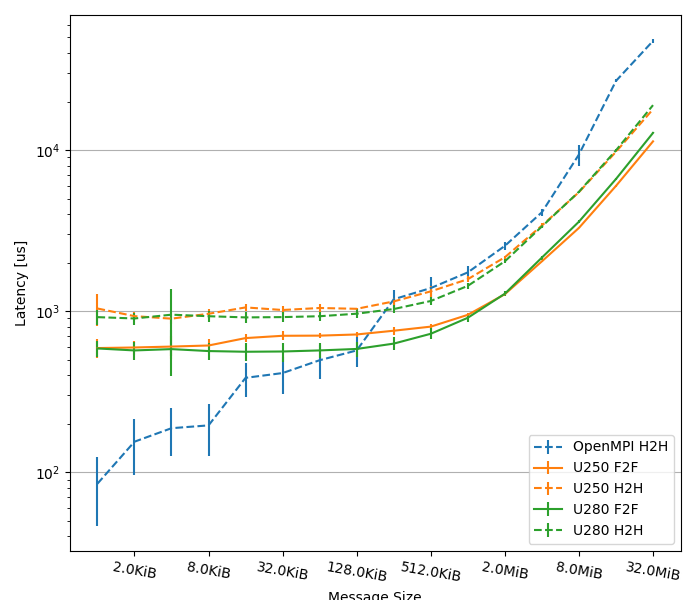
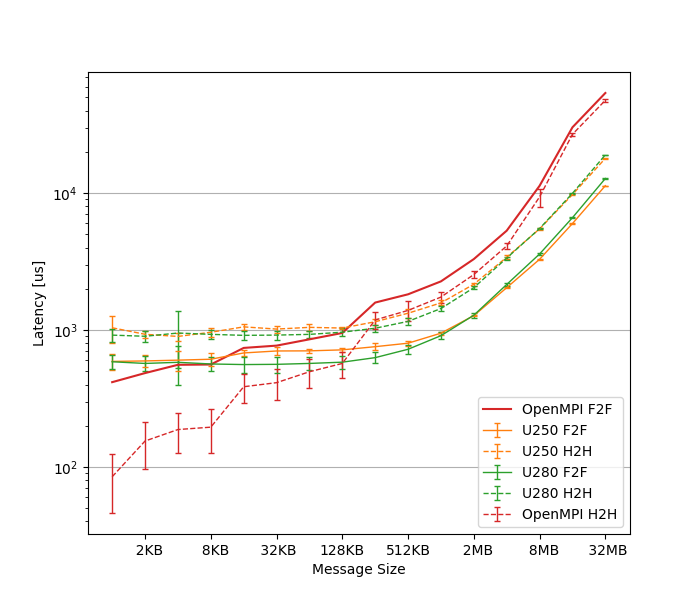
Adds one collective avergae execution time vs number of ranks in the communicator

diff --git a/demo/host/measurements/create_graphs.py b/demo/host/measurements/create_graphs.py
@@ -1,4 +1,4 @@
-from os import error, listdir, name
+from os import error, listdir, name, terminal_size
 from os.path import isfile, join
 from numpy import average, mean, std
 
@@ -27,7 +27,7 @@ def plot_clustered_bars(title, x_datas, y_datas, y_labels):
     plt.show()
     #plt.savefig(f"{title}.png")
 
-def plot_lines(title, x_datas, y_datas, y_labels, y_styles=None, logx=True, logy=True, y_errors=None):
+def plot_lines(title, x_datas, y_datas, y_labels, y_styles=None, logx=True, logy=True, y_errors=None, x_label='Message Size', legend_loc=None):
     if not(y_styles):
         y_styles = [None for _ in range(len(y_labels))]
     
@@ -54,16 +54,21 @@ def plot_lines(title, x_datas, y_datas, y_labels, y_styles=None, logx=True, logy
     #ax.set_title(title)
     if logy:
         ax.set_yscale('log')
-        ax.legend(loc="lower right")
-    else:
-        ax.legend(loc="upper left")
-        
+    
     if logx:
         ax.set_xscale('log', base=2)
         
-    ax.xaxis.set_major_formatter(ticker.FuncFormatter(lambda y, _: sizeof_fmt(y)))
+    if legend_loc is None :
+        if logy:
+            ax.legend(loc="lower right")
+        else:
+            ax.legend(loc="upper left")
+    else:
+        ax.legend(loc=legend_loc)
+    if x_label == "Message Size":
+        ax.xaxis.set_major_formatter(ticker.FuncFormatter(lambda y, _: sizeof_fmt(y)))
     plt.xticks(rotation=0)
-    ax.set_xlabel('Message Size')
+    ax.set_xlabel(x_label)
     plt.show()
     plt.savefig(f"{title}.png", format='png')
 
@@ -214,7 +219,7 @@ def compare_ssize(df):
             series_x.append(bufsize)
         plot_clustered_bars(collective, series_x, series_y, series_label)
 
-def compare_board(df):
+def compare_openMPI(df, H2H=True, F2F=True):
     df              = df[ (df["rank id"] == 0) & ( (df["number of nodes"]==4)  | (df["collective name"] == "Send/recv"))]
     collectives     = df["collective name"].unique()
     segment_size    = 1024
@@ -241,13 +246,13 @@ def compare_board(df):
 
             board = simplify_board_name(board)
             i+=1
-            if np.any(exe != 0):
+            if np.any(exe != 0) and F2F:
                 series_label.append(f"{board} F2F")
                 series_y.append(exe)
                 series_x.append(bufsize)
                 stdevs.append(exe_std)
                 styles.append(f"C{i}-")
-            if np.any(exe_full != 0):
+            if np.any(exe_full != 0) and H2H:
                 series_label.append(f"{board} H2H")
                 series_y.append(exe_full)
                 series_x.append(bufsize)
@@ -272,62 +277,219 @@ def compare_board(df):
             board = simplify_board_name(board)
             i+=1
             if np.any(exe_full != 0):
-                if average_delta is not None:
+                if average_delta is not None and F2F:
                     series_label.append(f"{board} F2F")
                     exe = list(map(sum, zip(exe_full,average_delta)))
                     series_y.append(exe)
                     series_x.append(bufsize[:len(exe)])
                     stdevs.append(None)
                     styles.append(f"C{i}-")
-                
+                if H2H:
+                    series_label.append(f"{board} H2H")
+                    series_y.append(exe_full)
+                    series_x.append(bufsize)
+                    stdevs.append(exe_full_std)
+                    styles.append(f"C{i}--")
+
+        
+        plot_lines("compare_OMPI"+("H2H" if H2H else "") + ("F2F" if F2F else "")+collective.replace("/", ""), series_x, series_y, series_label, styles, y_errors=stdevs, logx=True)
+        #plot_clustered_bars(collective, series_x, series_y, series_label)
+
+def compare_board(df,H2H=True, F2F=True):
+    df              = df[ (df["rank id"] == 0) & ( (df["number of nodes"]==4)  | (df["collective name"] == "Send/recv"))]
+    collectives     = df["collective name"].unique()
+    segment_size    = 1024
+    for collective in collectives:
+        print(collective)
+        subset              = df[(df["collective name"] == collective) & ((df["segment_size[KB]"] == segment_size) | (df["board_instance"] != "OpenMPI" ))]
+        grouped             = subset.groupby(["board_instance", "buffer size[KB]"]).agg({'execution_time[us]':['mean','std'], 'execution_time_fullpath[us]':['mean','std']})
+        grouped.reset_index(inplace=True)
+        grouped             = grouped.groupby(["board_instance"])
+        series_label = []
+        series_y     = []
+        series_x     = []
+        styles       = []
+        stdevs       = []
+
+        i = 0
+        for board, group in grouped:
+            print(group)
+            exe          = group['execution_time[us]']['mean'].to_numpy()
+            exe_std      = group['execution_time[us]']['std'].to_numpy()
+            bufsize      = group['buffer size[KB]'].to_numpy()*1024
+            exe_full     = group['execution_time_fullpath[us]']['mean'].to_numpy()
+            exe_full_std = group['execution_time_fullpath[us]']['std'].to_numpy()
+
+            board = simplify_board_name(board)
+            i+=1
+            if np.any(exe != 0) and F2F:
+                series_label.append(f"{board} F2F")
+                series_y.append(exe)
+                series_x.append(bufsize)
+                stdevs.append(exe_std)
+                styles.append(f"C{i}-")
+            if np.any(exe_full != 0) and H2H:
                 series_label.append(f"{board} H2H")
                 series_y.append(exe_full)
                 series_x.append(bufsize)
                 stdevs.append(exe_full_std)
                 styles.append(f"C{i}--")
 
+            if board.find("U280") != -1:
+                average_delta = np.abs(exe_full - exe)
         
-        plot_lines("board_comparison"+collective.replace("/", ""), series_x, series_y, series_label, styles, y_errors=stdevs, logx=True)
+        plot_lines("board_comparison"+("H2H" if H2H else "") + ("F2F" if F2F else "")+collective.replace("/", ""), series_x, series_y, series_label, styles, y_errors=stdevs, logx=True)
         #plot_clustered_bars(collective, series_x, series_y, series_label)
 
-def compare_rank_number(df):
+def compare_rank_number(df, H2H=False, F2F=True):
     df              = df[ (df["rank id"] == 0) ]
     collectives     = df["collective name"].unique()
     segment_size    = 1024
     for collective in collectives:
         print(collective)
-        subset              = df[(df["collective name"] == collective) & ((df["segment_size[KB]"] == segment_size) | (df["board_instance"] == "OpenMPI" ))]
-        grouped             = subset.groupby(["board_instance", "number of nodes", "buffer size[KB]"]).mean(['execution_time[us]', 'execution_time_fullpath[us]'])
+        subset              = df[(df["collective name"] == collective) & ((df["segment_size[KB]"] == segment_size) | (df["board_instance"] != "OpenMPI" ))]
+        grouped             = subset.groupby(["number of nodes", "buffer size[KB]"]).agg({'execution_time[us]':['mean','std'], 'execution_time_fullpath[us]':['mean','std']})
         grouped.reset_index(inplace=True)
-        grouped             = grouped.groupby(["board_instance"])
         print(grouped)
         series_label = []
         series_y     = []
         series_x     = []
         styles       = []
         stdevs       = []
-        i = 0
+        average_delta = None
+        nodes_available = [4,5,6,7]
         ls = ['-', '--', '-.', ':']
-        for board, group in grouped:
-            board = simplify_board_name(board)
-            j = 0
-            for  num_nodes, sub_group in group.groupby(["number of nodes"]):
-                if num_nodes not in [2,4,5,6,7]:
-                    continue
-                j+=1
-                exe          = sub_group['execution_time[us]'].to_numpy()
-                bufsize      = sub_group['buffer size[KB]'].to_numpy()
-                
-                if np.any(exe != 0):
-                    series_label.append(f"{board} {num_nodes}")
+        j=0
+        for  num_nodes, sub_group in grouped.groupby(["number of nodes"]):
+            if num_nodes not in nodes_available:
+                continue
+            exe          = sub_group['execution_time[us]']['mean'].to_numpy()
+            exe_std      = sub_group['execution_time[us]']['std'].to_numpy()
+            bufsize      = sub_group['buffer size[KB]'].to_numpy()*1024
+            exe_full     = sub_group['execution_time_fullpath[us]']['mean'].to_numpy()
+            exe_full_std = sub_group['execution_time_fullpath[us]']['std'].to_numpy()
+            
+
+            if np.any(exe != 0) and F2F:
+                series_label.append(f"ACCL {num_nodes} F2F")
+                series_y.append(exe)
+                series_x.append(bufsize)
+                stdevs.append(exe_std)
+                styles.append(f"C4{ls[j % len(ls)]}+")
+            if np.any(exe_full != 0) and H2H:
+                series_label.append(f"ACCL {num_nodes} H2H")
+                series_y.append(exe_full)
+                series_x.append(bufsize)
+                stdevs.append(exe_full_std)
+                styles.append(f"C4{ls[j % len(ls)]}+")
+            j+=1
+        
+        #OpenMPI
+        subset              = df[(df["collective name"] == collective) & (df["board_instance"] == "OpenMPI" )]
+        grouped             = subset.groupby(["number of nodes", "buffer size[KB]"]).agg({'execution_time[us]':['mean','std'], 'execution_time_fullpath[us]':['mean','std']})
+        grouped.reset_index(inplace=True)
+        print(grouped)
+
+        j=0
+        for  num_nodes, sub_group in grouped.groupby(["number of nodes"]):
+            if num_nodes not in nodes_available:
+                continue
+            exe          = sub_group['execution_time[us]']['mean'].to_numpy()
+            exe_std      = sub_group['execution_time[us]']['std'].to_numpy()
+            bufsize      = sub_group['buffer size[KB]'].to_numpy()*1024
+            exe_full     = sub_group['execution_time_fullpath[us]']['mean'].to_numpy()
+            exe_full_std = sub_group['execution_time_fullpath[us]']['std'].to_numpy()
+            if np.any(exe_full != 0):
+                if average_delta is not None and F2F:
+                    series_label.append(f"OpenMPI {num_nodes} F2F")
+                    exe = list(map(sum, zip(exe_full,average_delta)))
                     series_y.append(exe)
-                    stdevs.append(np.ones_like(exe))
+                    series_x.append(bufsize[:len(exe)])
+                    stdevs.append(None)
+                    styles.append(f"C3{ls[j % len(ls)]}+")
+
+                if H2H or F2F and average_delta is None:
+                    series_label.append(f"OpenMPI {num_nodes} H2H")
+                    series_y.append(exe_full)
                     series_x.append(bufsize)
-                    styles.append(f"C{i}{ls[j % len(ls)]}+")
-            i+=1
+                    stdevs.append(exe_full_std)
+                    styles.append(f"C3{ls[j % len(ls)]}+")
+            j+=1
+     
+        
         plot_lines("rank_comparison"+collective.replace("/", ""), series_x, series_y, series_label, styles)
 
         #plot_clustered_bars(collective, series_x, series_y, series_label)
+
+def compare_rank1_number(df, H2H=True, F2F=True):
+    df              = df[ (df["rank id"] == 0) ]
+    collectives     = df["collective name"].unique()
+    bsizes           = df[ "buffer size[KB]"].unique()
+    segment_size    = 1024
+    for collective in collectives:
+        ls = ['-', '--', '-.', ':']
+        for bsize in bsizes:
+            series_label = []
+            series_y     = []
+            series_x     = []
+            styles       = []
+            stdevs       = []
+            average_delta = None
+            subset              = df[(df["collective name"] == collective) & (df[ "buffer size[KB]"] == bsize) & (df["segment_size[KB]"] == segment_size) & (df["number of nodes"] > 2)]
+            grouped             = subset.groupby(["number of nodes"]).agg({'execution_time[us]':['mean','std'], 'execution_time_fullpath[us]':['mean','std']})
+            grouped.reset_index(inplace=True)
+            print(collective, bsize, grouped)
+    
+            exe          = grouped['execution_time[us]']['mean'].to_numpy()
+            exe_std      = grouped['execution_time[us]']['std'].to_numpy()
+            num_nodes    = grouped['number of nodes']
+            exe_full     = grouped['execution_time_fullpath[us]']['mean'].to_numpy()
+            exe_full_std = grouped['execution_time_fullpath[us]']['std'].to_numpy()
+        
+            if np.any(exe != 0) and F2F:
+                series_label.append("ACCL F2F")
+                series_y.append(exe)
+                series_x.append(num_nodes)
+                stdevs.append(exe_std)
+                styles.append(f"C4-+")
+            if np.any(exe_full != 0) and H2H:
+                series_label.append("ACCL H2H")
+                series_y.append(exe_full)
+                series_x.append(num_nodes)
+                stdevs.append(exe_full_std)
+                styles.append(f"C4--+")
+            
+            #OpenMPI
+            subset              = df[(df["collective name"] == collective) & (df[ "buffer size[KB]"] == bsize) & (df["board_instance"] == "OpenMPI" ) & (df["number of nodes"] > 2)]
+            grouped             = subset.groupby(["number of nodes"]).agg({'execution_time[us]':['mean','std'], 'execution_time_fullpath[us]':['mean','std']})
+            grouped.reset_index(inplace=True)
+
+ 
+            exe          = grouped['execution_time[us]']['mean'].to_numpy()
+            exe_std      = grouped['execution_time[us]']['std'].to_numpy()
+            num_nodes    = grouped['number of nodes'].to_numpy()
+            exe_full     = grouped['execution_time_fullpath[us]']['mean'].to_numpy()
+            exe_full_std = grouped['execution_time_fullpath[us]']['std'].to_numpy()
+            if np.any(exe_full != 0):
+                if average_delta is not None and F2F:
+                    series_label.append("OpenMPI F2F")
+                    exe = list(map(sum, zip(exe_full,average_delta)))
+                    series_y.append(exe)
+                    series_x.append(num_nodes[:len(exe)])
+                    stdevs.append(None)
+                    styles.append(f"C3-+")
+
+                if H2H or F2F and average_delta is None:
+                    series_label.append("OpenMPI  H2H")
+                    series_y.append(exe_full)
+                    series_x.append(num_nodes)
+                    stdevs.append(exe_full_std)
+                    styles.append(f"C3--+")
+
+            
+            plot_lines("rank_comparison"+collective.replace("/", "")+str(bsize), series_x, series_y, series_label, styles, y_errors=stdevs, x_label="Number of ranks", legend_loc ="upper left", logx=False)
+
+            #plot_clustered_bars(collective, series_x, series_y, series_label)
 def simplify_board_name(name):
     if   name == "xilinx_u250_gen3x16_xdma_shell_3_1":
         return "U250"
@@ -363,6 +525,7 @@ if __name__ == "__main__":
     parser.add_argument('--compare_board'       , action='store_true', default=False,     help='comapre performance of different alveo'   )
     parser.add_argument('--compare_openMPI'     , action='store_true', default=False,     help='comapre performance against OpenMPI'   )
     parser.add_argument('--compare_rank_number' , action='store_true', default=False,     help='comapre performance of different number of ranks'   )
+    parser.add_argument('--compare_rank1_number', action='store_true', default=False,     help='comapre performance of different number of ranks'   )
     #                                                                                                                       fig           data  
     #D)for every collectiveopen_mpi_and_fpga_at_different_ranks (probably 4-8 with fpga not full_path)                      6xfig         ok    
     #Z)send and receive throughput with different banks (1)                                                                 1xfig         ok
@@ -387,5 +550,9 @@ if __name__ == "__main__":
         compare_board(df)
     if args.compare_rank_number:
         compare_rank_number(df)
-    if arg.compare_openMPI:
+    if args.compare_rank1_number:
+        compare_rank1_number(df)
+    if args.compare_openMPI:
         compare_openMPI(df)
+        compare_openMPI(df, H2H=False)
+        compare_openMPI(df, F2F=False)
